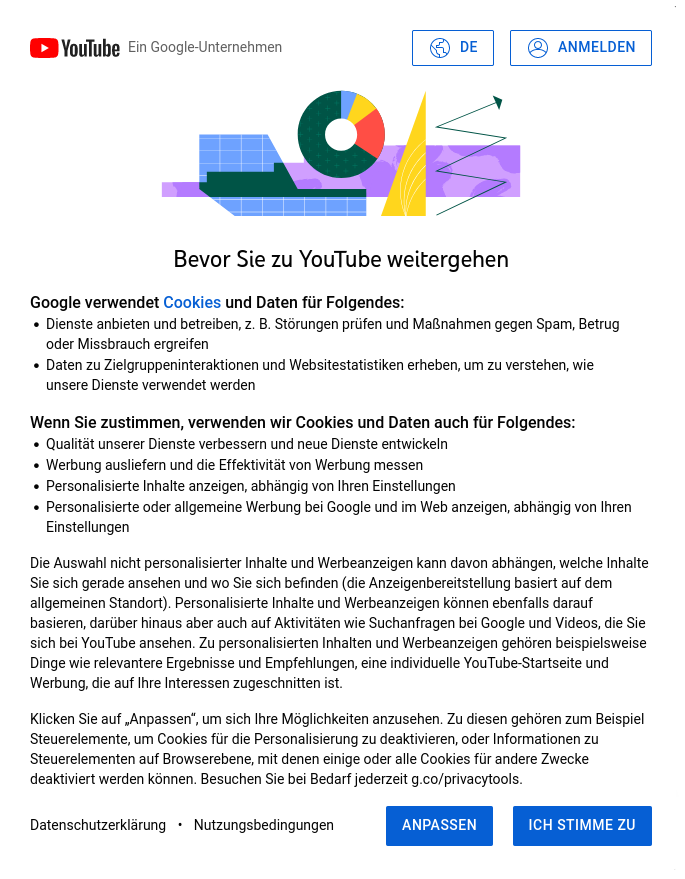
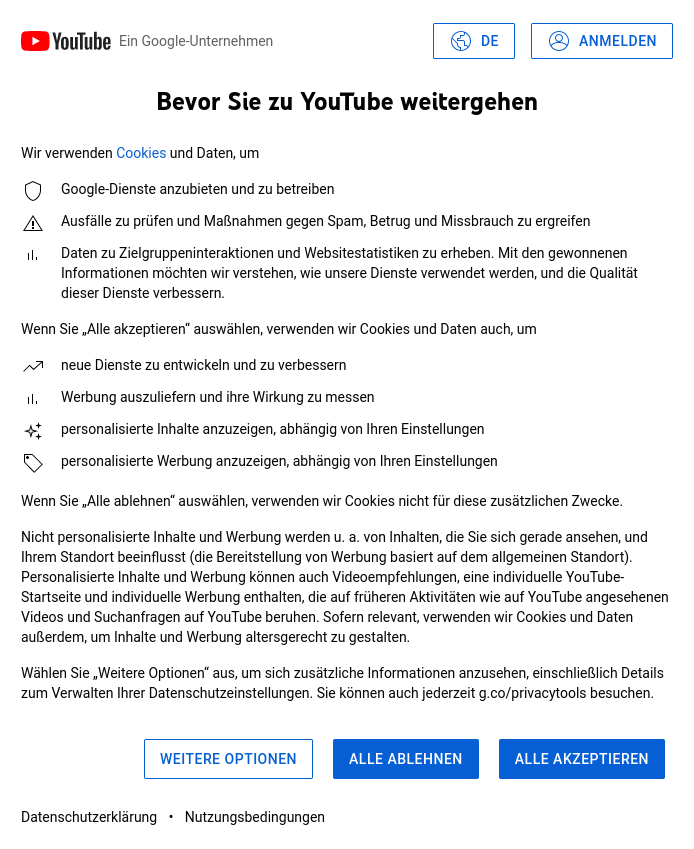
adjusted youtube popup to include changes made to original popup

Changed region(s): [[0.0307, 0.0306, 0.981, 0.98], [0.0307, 0.0306, 0.3985, 0.0919], [0.0307, 0.2144, 0.0613, 0.2756]]

diff --git a/src/app/pages/youtube/modal/pop-up/pop-up.component.html b/src/app/pages/youtube/modal/pop-up/pop-up.component.html
@@ -1,5 +1,7 @@
 <div class="wrapper">
-  <ion-button class="yt-button adjust" (click)="adjustSettings()">Anpassen</ion-button>
+  <ion-button class="yt-button adjust" fill="outline" (click)="adjustSettings()">Weitere Optionen</ion-button>
   &nbsp;
-  <ion-button class="yt-button accept" (click)="acceptAll()">Ich stimme zu</ion-button>
+  <ion-button class="yt-button accept" (click)="acceptAll()">Alle Akzeptieren</ion-button>
+
+  <ion-button class="yt-button reject" (click)="reject()">Alle Ablehnen</ion-button>
 </div>

diff --git a/src/app/pages/youtube/modal/pop-up/pop-up.component.scss b/src/app/pages/youtube/modal/pop-up/pop-up.component.scss
@@ -11,16 +11,24 @@
   --border-radius: 2px;
   --box-shadow: none;
   --background: #065fd4;
-  text-transform: none;
   margin: 20px;
 }
 
 .accept{
-  bottom: 0px;
-  right: 0px;
+  bottom: 55px;
+  right: 10px;
 }
 
 .adjust{
-  bottom: 0px;
-  right: 160px;
+  bottom: 55px;
+  right: 360px;
+  --background: white;
+  color: #065fd4;
+  --border-color: #065fd4 ;
+  --border-width: 1px;
+}
+
+.reject{
+  bottom: 55px;
+  right: 200px;
 }

diff --git a/src/app/pages/youtube/youtube.page.scss b/src/app/pages/youtube/youtube.page.scss
@@ -1,3 +1,3 @@
 ion-content {
-  --background: #fff url("../../../assets/youtube/background.png") no-repeat;
+  --background: #fff url("../../../assets/youtube/yt-background.png") no-repeat;
 }

diff --git a/src/global.scss b/src/global.scss
@@ -85,8 +85,8 @@ ion-header {
 }
 // YOUTUBE PAGE
 .youtube-modal{
-  --width: 670px;
-  --height: 864px;
+  --width: 700px;
+  --height: 852px;
   --border-radius: 2px;
 }
 
